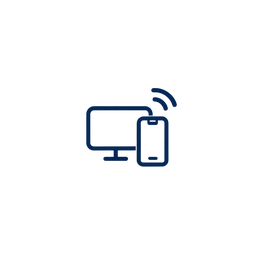
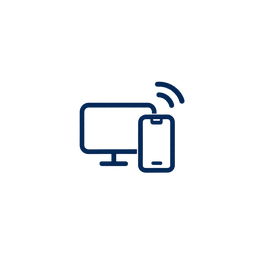
Category pictograms: larger slots, tighter fill, crisp rendering
Sidebar pictograms were too small and read faintly. Enlarge the sidebar icon
slot (21->27px) and the mobile grid slot (28->32px), tighten the PNG padding
(16%->7%) and crop the two drawn SVGs to their content so the artwork fills the
slot. Icons now render at a proper, legible size in both contexts.

Changed region(s): [[0.2812, 0.3125, 0.7188, 0.6875]]

diff --git a/public/v91/okla_native_pages.css b/public/v91/okla_native_pages.css
@@ -168,7 +168,16 @@ html body .cart-empty .okla-search-panel{width:100%!important;min-width:0!import
 .okm61-category-icon img.okla-category-png{
   display:block!important;width:100%!important;height:100%!important;
   max-width:none!important;object-fit:contain!important;margin:0!important;padding:0!important;
+  image-rendering:auto!important;
 }
+/* Bigger, legible pictogram slot in the desktop sidebar category list. */
+#content-wrapper aside.sidebar.sidebar-left #categories .topic>a .okla-cat-svg{
+  flex:0 0 27px!important;width:27px!important;height:27px!important;
+}
+#content-wrapper aside.sidebar.sidebar-left #categories .topic>a .okla-cat-svg svg{width:25px!important;height:25px!important}
+/* Slightly larger pictograms in the mobile category grid. */
+#okla-v61-categories .okm61-category-icon{flex:0 0 32px!important;width:32px!important;height:32px!important}
+#okla-v61-categories .okm61-category-icon img.okla-category-png{width:32px!important;height:32px!important}
 
 /* ---------- Native/CMS text pages: unified mobile width ----------
    Pages Shoptet renders without an OKLA card (Kontakty and every CMS text page
